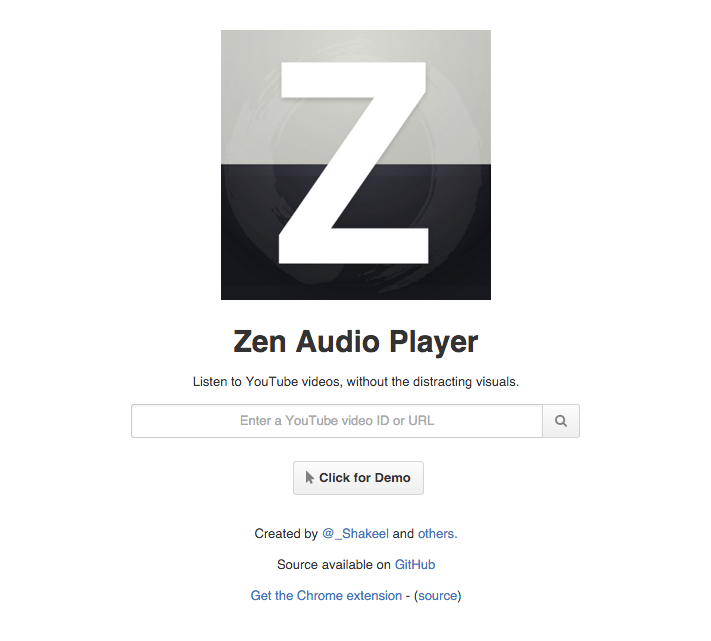
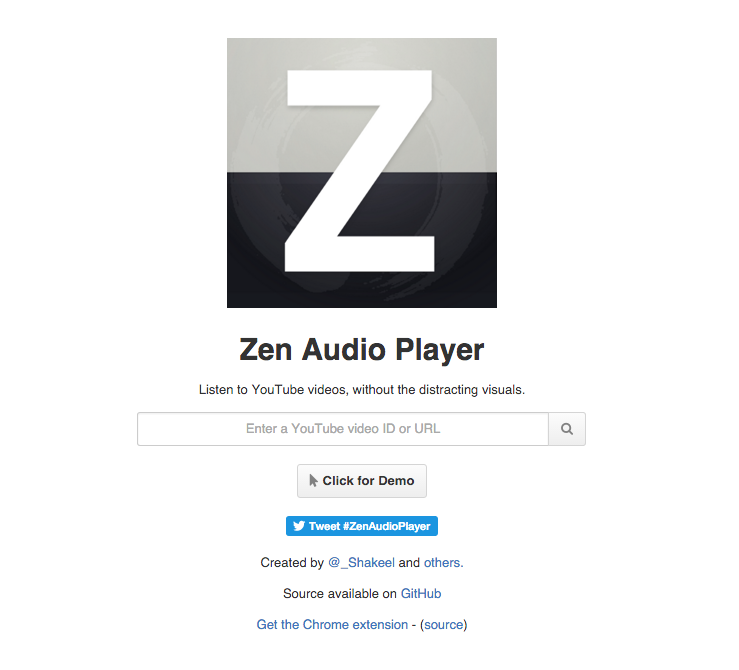
css issues fix, updated screenshot, hide the player on error

diff --git a/index.html b/index.html
@@ -46,9 +46,9 @@
                 </span>
             </div>
         </form>
+        <div id="zen-video-error" class="hide flash flash-error"></div>
         <!-- The video, along with related content & messages -->
         <div id="audioplayer">
-            <div id="zen-video-error" class="hide flash flash-error"></div>
             <div id="player">
                 <br>
             </div>
@@ -78,6 +78,7 @@
             <div id="zen-video-description" class="hide"></div>
             <br>
         </div>
+        <br>
         <button id="demo" class="btn">
             <i class="fa fa-mouse-pointer"></i>
             Click for Demo

diff --git a/js/everything.js b/js/everything.js
@@ -243,6 +243,7 @@ function onPlayerReady(event) {
 function showErrorMessage(message) {
     $("#zen-video-error").text("ERROR: " + message);
     $("#zen-video-error").show();
+    $("#audioplayer").hide();
 }
 
 function hideErrorMessage() {
@@ -401,7 +402,6 @@ $(function() {
             ga("send", "event", "demo", "already had video ID in URL");
         }
     });
-
     // Initialize volume slider
     $("#volume").slider({
         min: 0,

diff --git a/css/styles.css b/css/styles.css
@@ -41,8 +41,8 @@ header, footer {
     word-wrap: break-word;
 }
 #demo {
-    margin-top: 5%;
-    margin-left: 36%;
+    display: block;
+    margin: 0 auto;
 }
 
 #zen-video-description {
